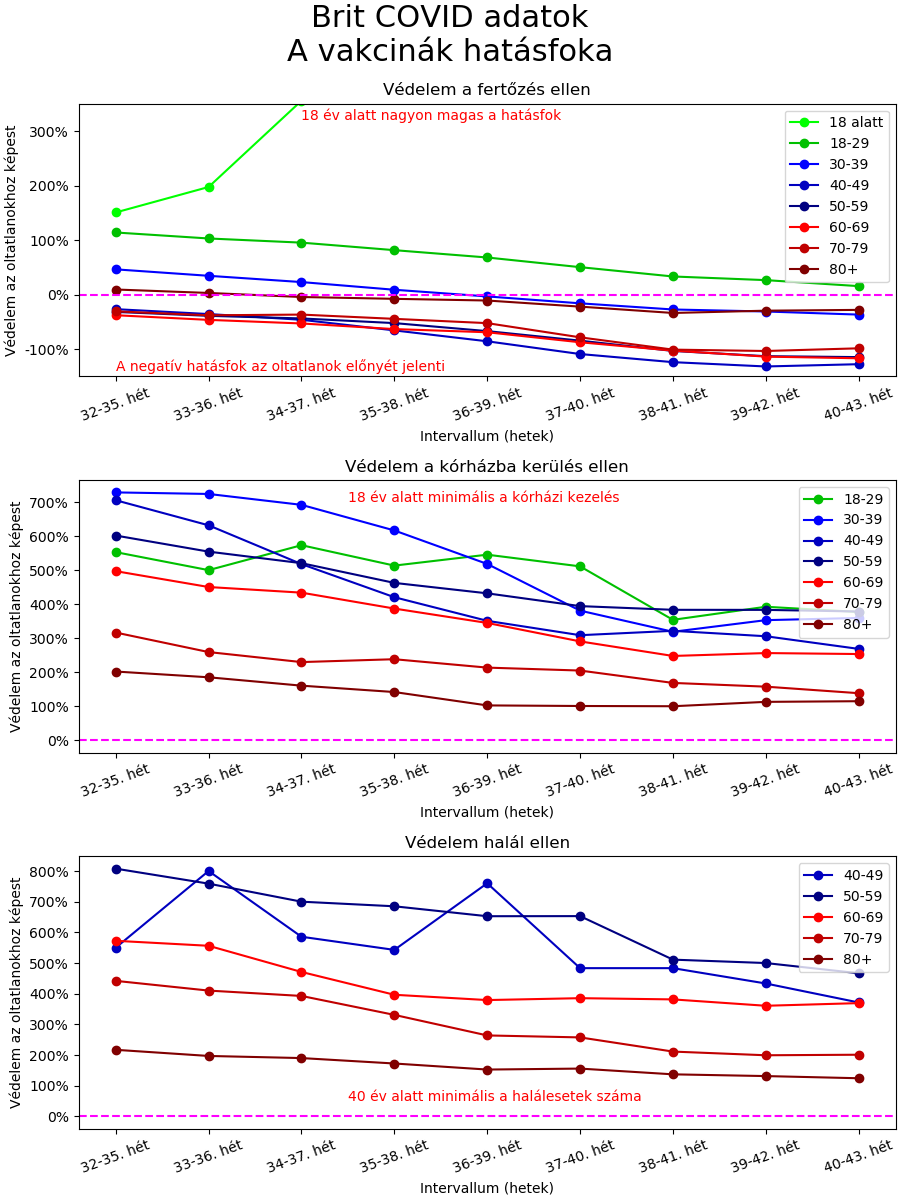
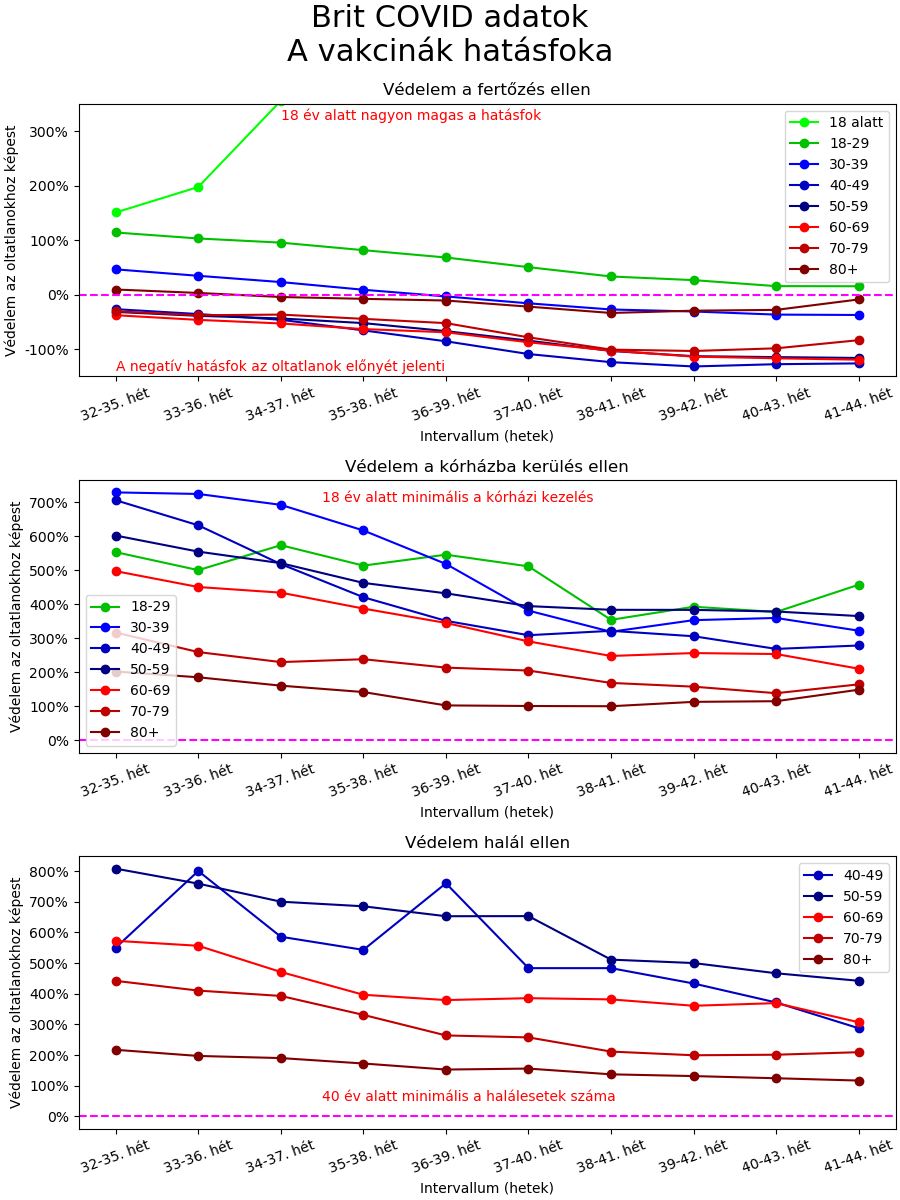
Vakcinák hatásfoka

diff --git a/anglia/kép_vakcinahatásfok.py b/anglia/kép_vakcinahatásfok.py
@@ -101,7 +101,7 @@ ax2.set(xlabel="Intervallum (hetek)", ylabel="Védelem az oltatlanokhoz képest"
 ax2.yaxis.set_major_formatter(mtick.PercentFormatter())
 ax2.tick_params(axis='x', rotation=20)
 ax2.text(2.5, 700, '18 év alatt minimális a kórházi kezelés', color = 'red')
-ax2.legend(loc = 'upper right')
+ax2.legend(loc = 'lower left')
 
 
 ax3=fig.add_subplot(spec[2], label="3")
@@ -117,7 +117,7 @@ ax3.set(xlabel="Intervallum (hetek)", ylabel="Védelem az oltatlanokhoz képest"
 ax3.yaxis.set_major_formatter(mtick.PercentFormatter())
 ax3.tick_params(axis='x', rotation=20)
 ax3.text(2.5, 50, '40 év alatt minimális a halálesetek száma', color = 'red')
-ax3.legend()
+ax3.legend(loc = 'upper right')
 
 fig.suptitle('Brit COVID adatok\nA vakcinák hatásfoka', fontsize=22)
 fig.savefig(BASEDIR + "/anglia-vakcinahatásfok.png")
